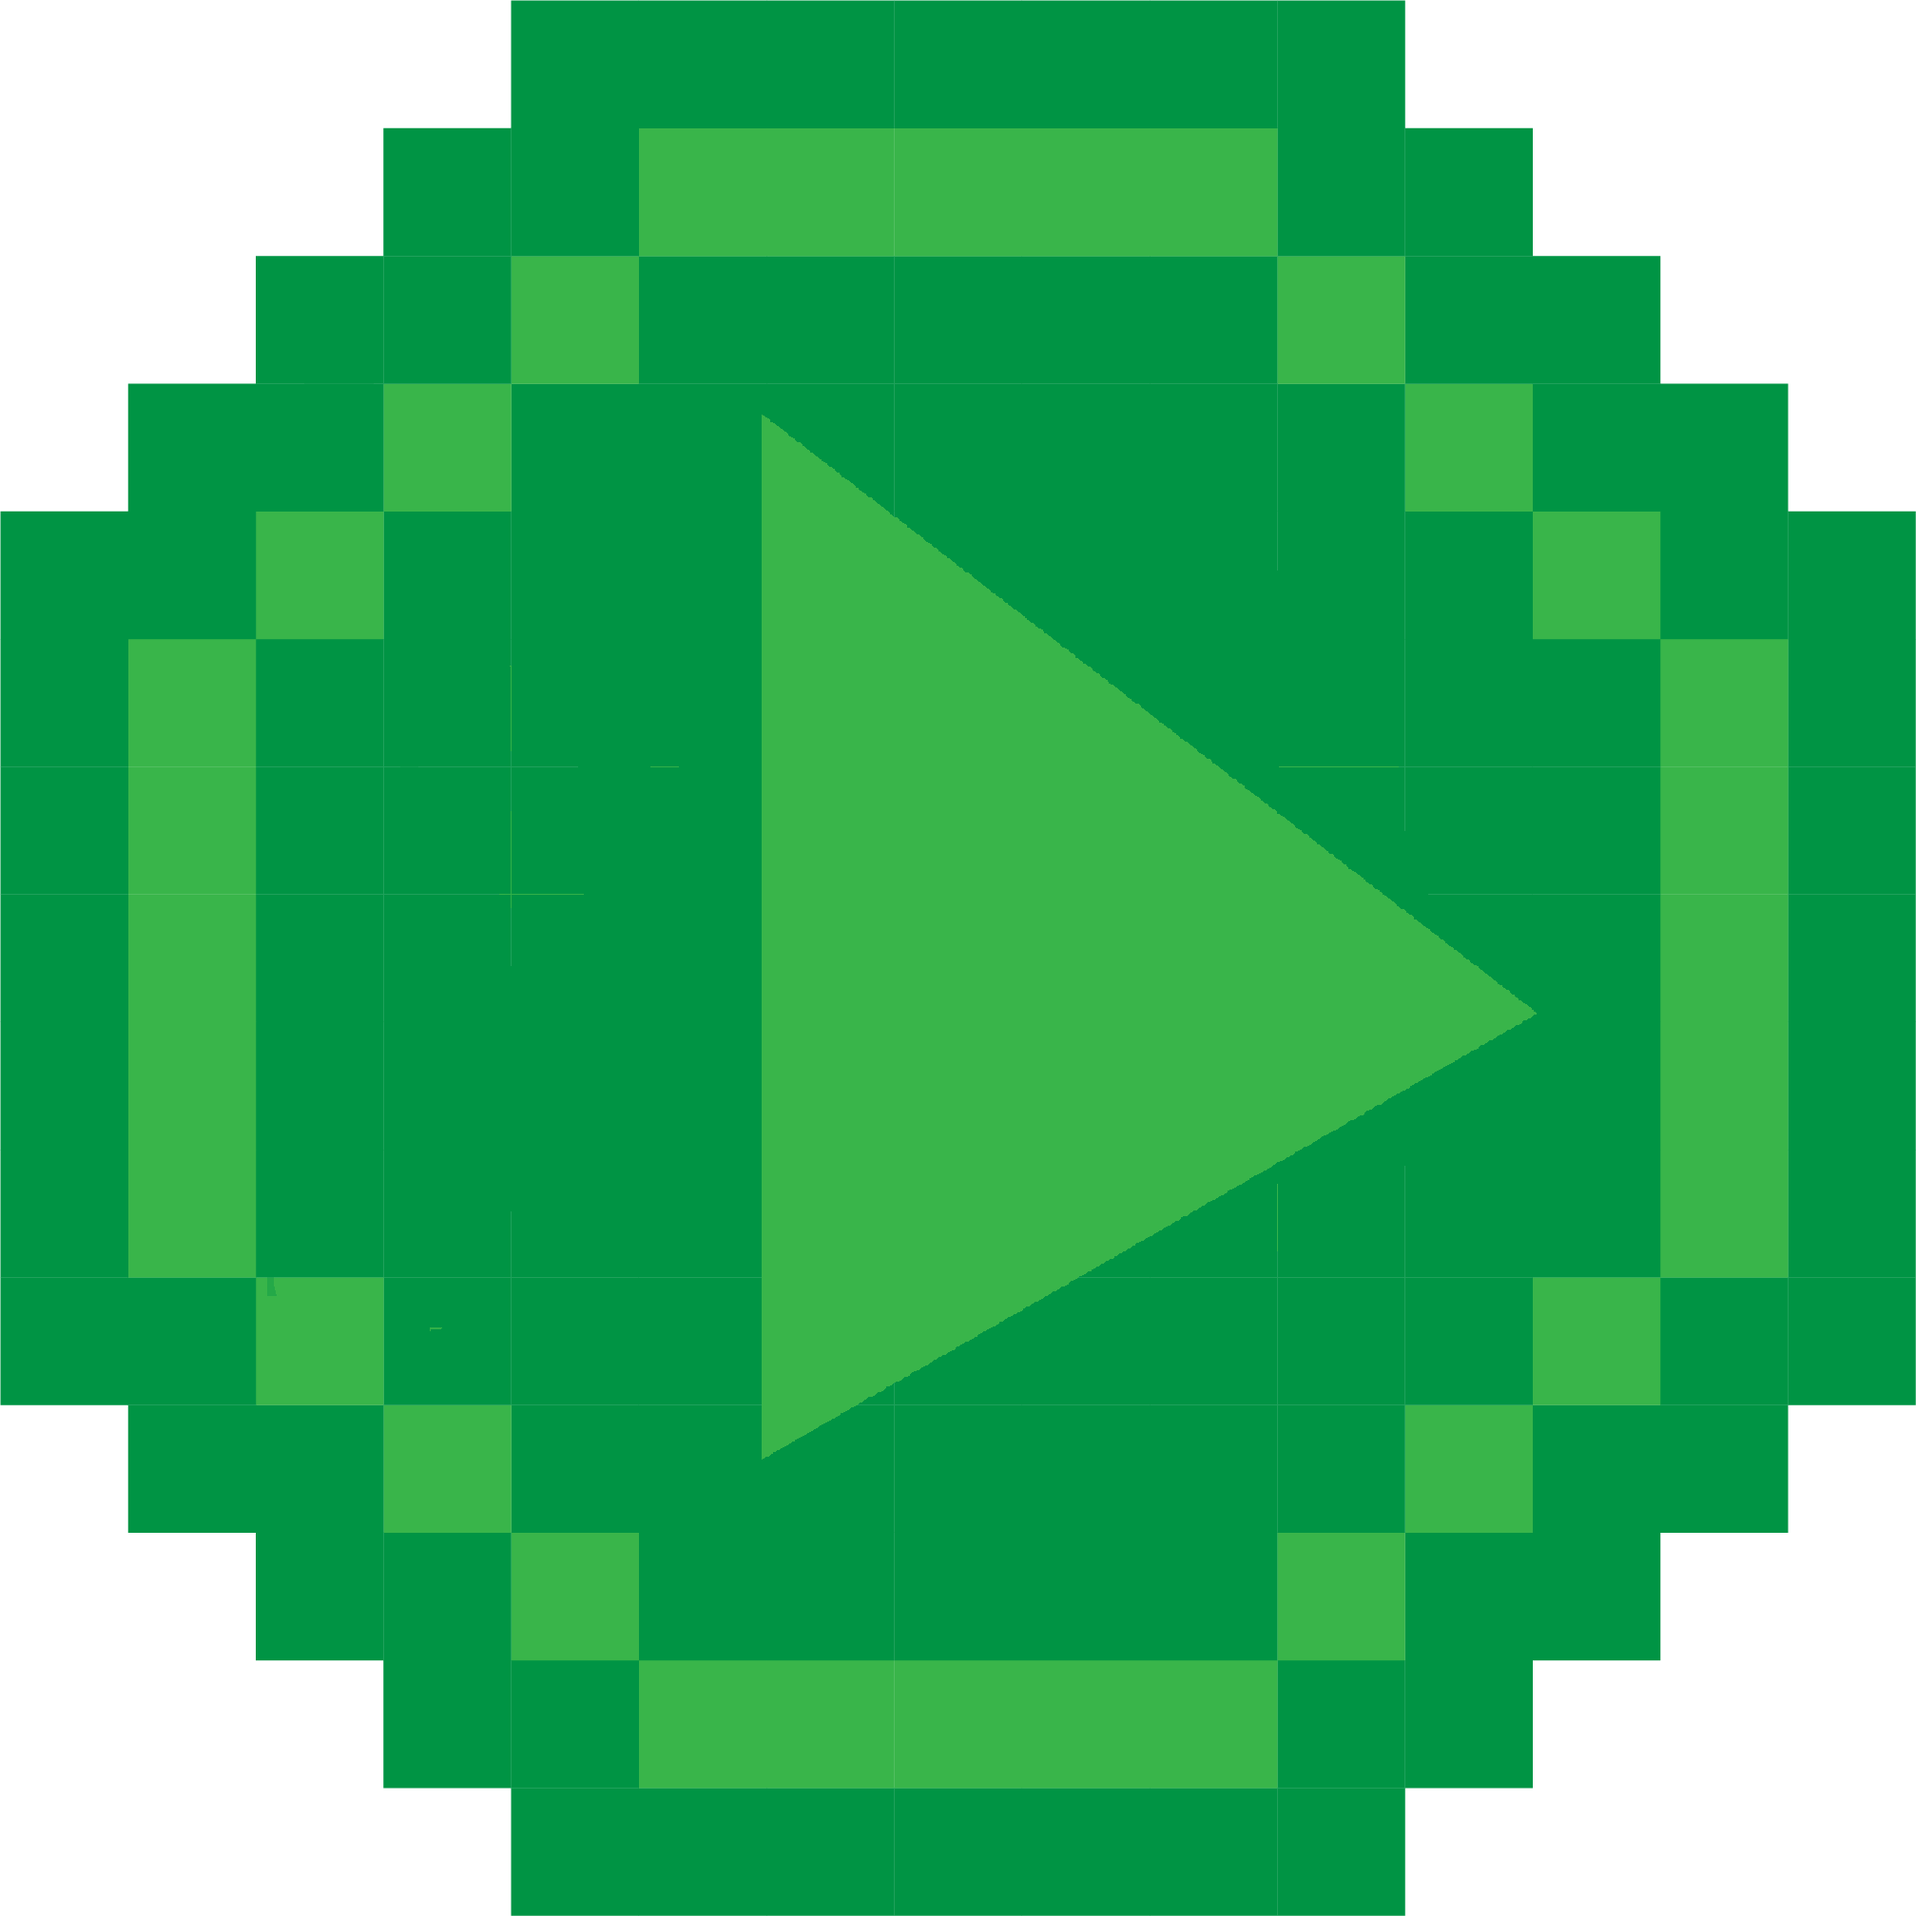
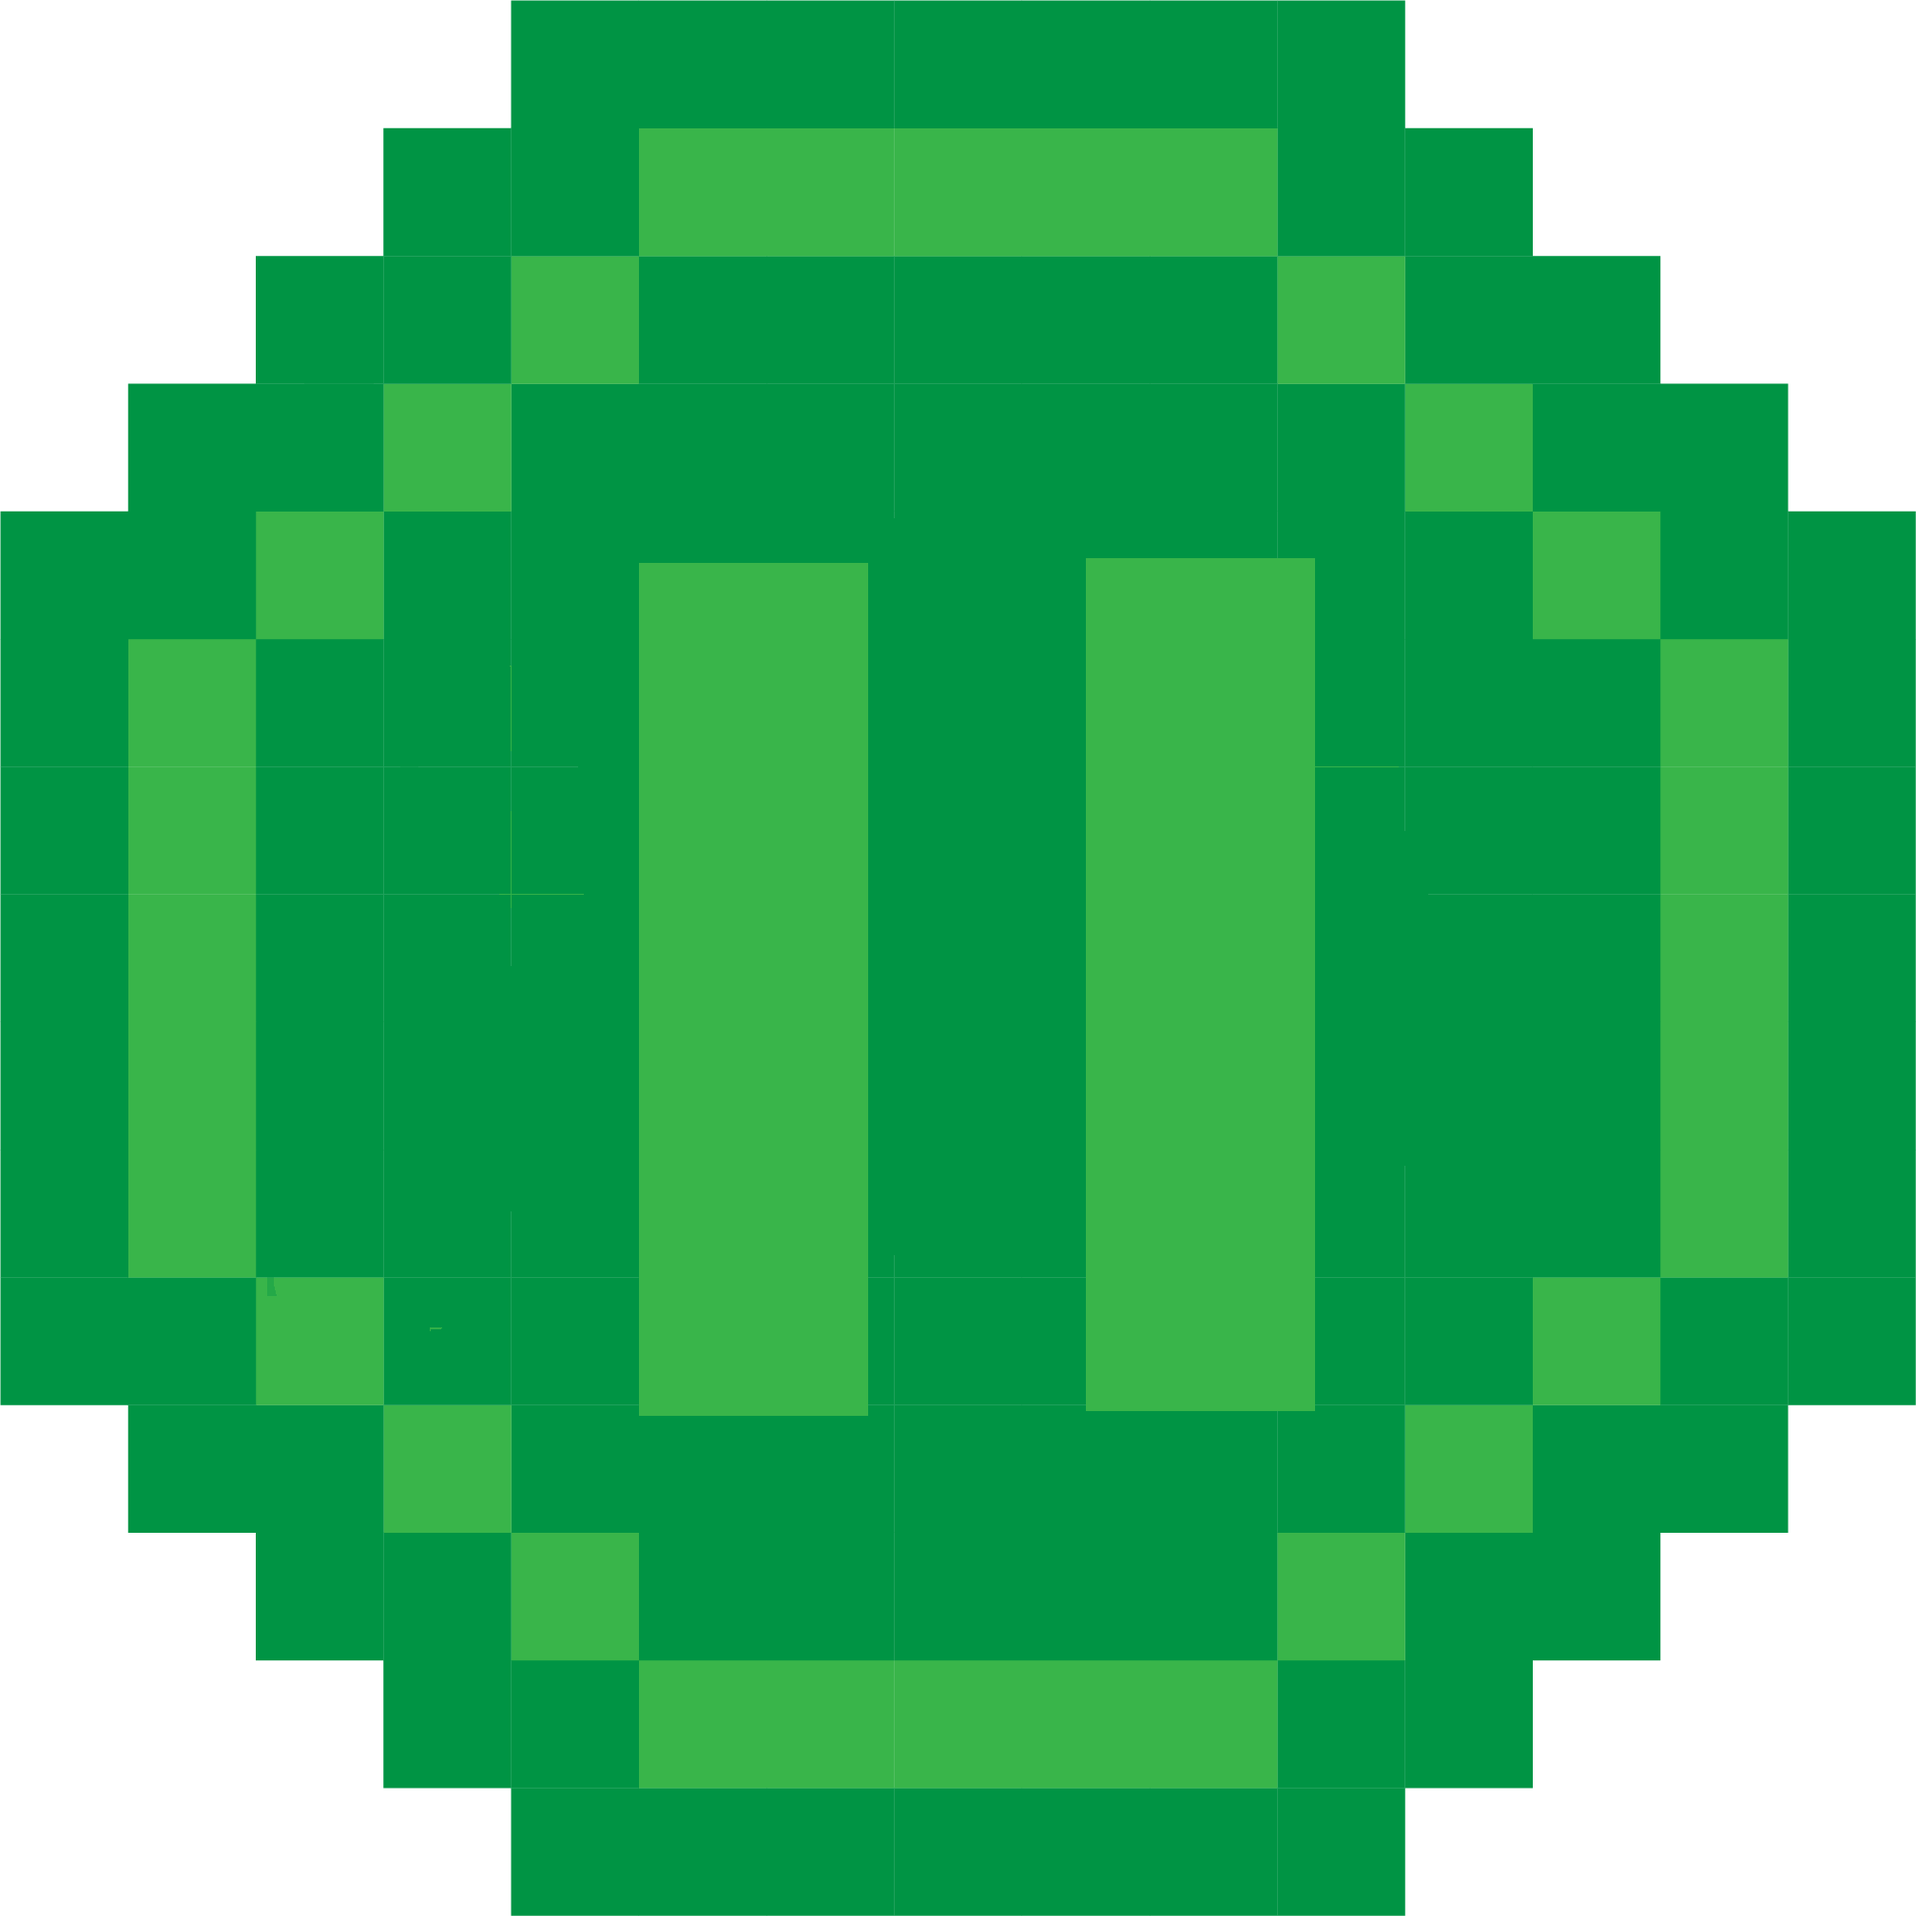
Chnagement nom des images et modification / ajout dans le code

Changed region(s): [[0.3077, 0.2154, 0.8, 0.7385], [0.4, 0.7385, 0.4308, 0.7692]]

diff --git a/CodeTelecommande/Codes/CastVideos1.js b/CodeTelecommande/Codes/CastVideos1.js
@@ -16,10 +16,11 @@ const videoList = [
     'https://transfertco.ca/video/usa23_7_02.mp4'
 ];
 
+//Connection
 document.getElementById('cast_connect').addEventListener('click', () => {
     initializeApiOnly();
 });
-
+//Start 
 document.getElementById('start_button').addEventListener('click', () => {
     if (currentSession) {
         if(localStorage.getItem('currentVideoIndexLS')) {
@@ -34,6 +35,7 @@ document.getElementById('start_button').addEventListener('click', () => {
     }
 });
 
+//NEXT / PREVIOUS
 document.getElementById('next_button').addEventListener('click', () => {
     if (currentSession) {
         currentVideoIndex = (currentVideoIndex + 1) % videoList.length;
@@ -54,6 +56,7 @@ document.getElementById('previousBtn').addEventListener('click', () => {
     }
 });
 
+//PLAY / PAUSE
 document.getElementById('play_button').addEventListener('click', () => {
     if (currentMediaSession) {
         if (isPlaying) {
@@ -64,6 +67,40 @@ document.getElementById('play_button').addEventListener('click', () => {
         isPlaying = !isPlaying;
     }
 });
+//NEW PLAY / PAUSE vient de moi
+document.getElementById('playBtn').addEventListener('click', () => {
+    if (currentMediaSession) {
+        if (!isPlaying) {
+            currentMediaSession.play(null, onMediaCommandSuccess, onError);
+        isPlaying = !isPlaying;
+        }
+    }
+});
+
+document.getElementById('pauseBtn').addEventListener('click', () => {
+    if (currentMediaSession) {
+        if (isPlaying) {
+            currentMediaSession.pause(null, onMediaCommandSuccess, onError);
+        }
+        isPlaying = !isPlaying;
+    }
+});
+
+//Volume
+
+//New mute function. Elle est meilleur que la précédente, car quand on click sur le button, il a pas de freeze et nous voyons avec l'état de volume sur la vidéo elle est mute.
+//Je suis allé la chercher dans mon propre code de télécommande.
+let isMuted = false;
+document.getElementById('muteToggle').addEventListener('click', () => {
+    if (currentSession) {
+        isMuted = !isMuted;
+        currentSession.setReceiverMuted(isMuted, onMediaCommandSuccess, onError);
+    }
+});
+
+//Volume +
+
+//Volume -
 
 
 function sessionListener(newSession) {

diff --git a/CodeTelecommande/Codes/Telecommande.html b/CodeTelecommande/Codes/Telecommande.html
@@ -11,10 +11,10 @@
     <div class="container">  
         <div class="cast_mute_container">
                     <button class="cast_mute_button">
-                        <img id ="cast_connect"  class="button" src="../images\vecteezy_pixel-art-play-button_8506348-Recovere1d.png"/>
+                        <img id ="cast_connect"  class="button" src="../images\vecteezy_pixel-art-play-button_8506348-Recovere1d.png" title="Connection ChromeCast"/>
                     </button> 
                     <button  class="cast_mute_button">
-                        <img id ="muteToggle"  class="button" src="../images\MUTE.PNG"/>
+                        <img id ="muteToggle"  class="button" src="../images\MUTE.PNG" title="Mute button"/>
                     </button>
                 </div>
         <div class="container_play_pause">

diff --git a/CodeTelecommande/Codes/style.css b/CodeTelecommande/Codes/style.css
@@ -80,18 +80,3 @@ img{
     background-color: inherit;
     align-items: center;
 }
-
-.seekslide{
-   color: rgb(0, 0, 0);
-    width: 250px;
-    height: 100px;
-    margin-left: 20px;
-    margin-top: 20px;
-    align-items: center;
-}
-
-.time{
-    margin-left: 15px;
-    font-family: 'Courier New', Courier, monospace;
-    color: white;
-}
